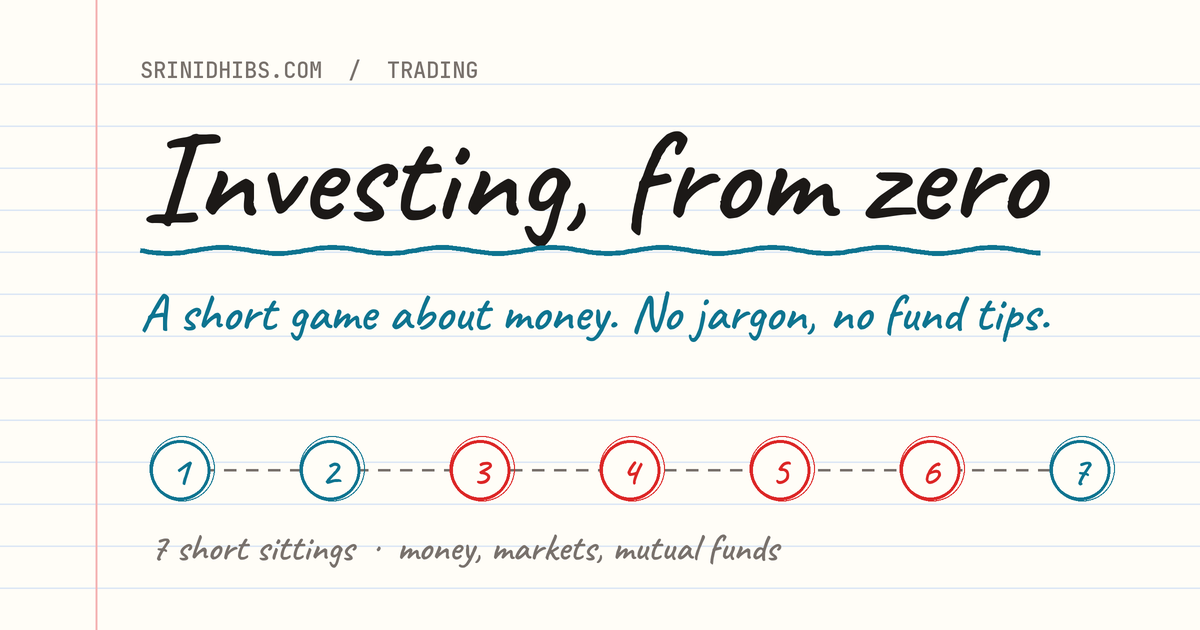
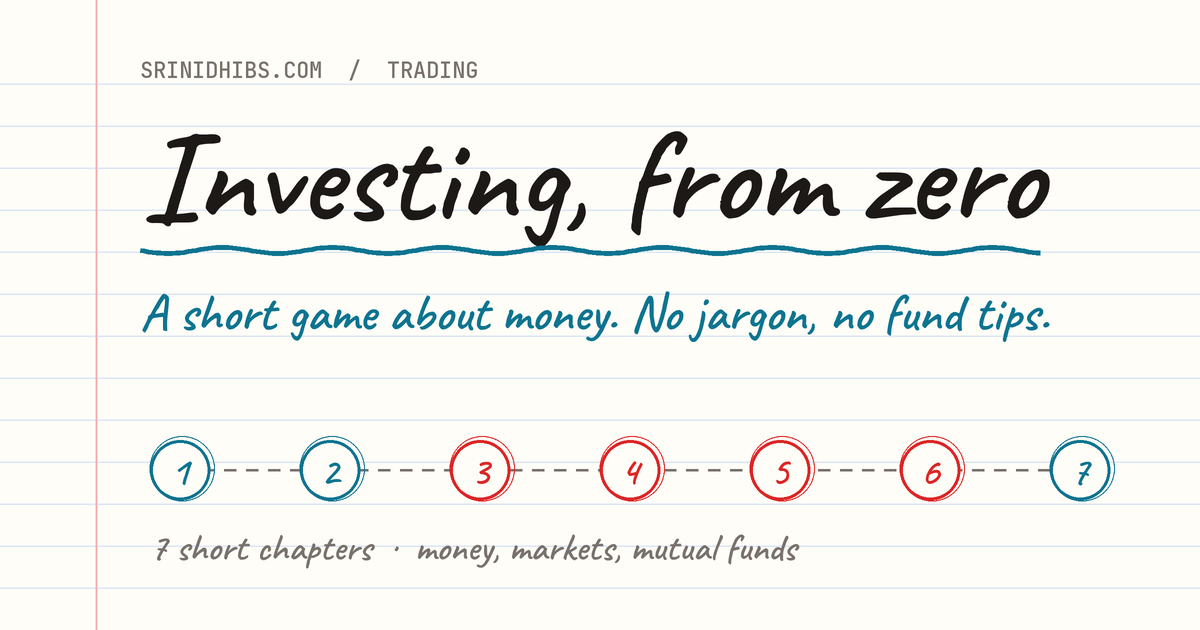
copy(investing): readers now see "Chapter" instead of "Sitting"
Reader-facing words only (option A): screen labels, Finish / complete /
celebration text, two story lines in Chapter 2, the Trading card + image
alt, and the WhatsApp share image (redrawn: "7 short chapters").

Code names stay "sitting" on purpose: file names, ids, the saved-progress
key (ifz-progress-v1 / "sitting-1") and Umami event names - renaming them
would wipe readers' progress and split the analytics history.

Changed region(s): [[0.2158, 0.8444, 0.6783, 0.9048]]

diff --git a/src/components/pages/Trading.js b/src/components/pages/Trading.js
@@ -52,7 +52,7 @@ const Trading = () => {
                 loads (no layout jump); lazy = fetched only near the screen */}
             <img
               src="/images/investing/og-investing-from-zero.png"
-              alt="A notebook page reading 'Investing, from zero' with seven numbered sittings"
+              alt="A notebook page reading 'Investing, from zero' with seven numbered chapters"
               loading="lazy"
               decoding="async"
               className="block w-full md:w-1/2 aspect-[40/21] object-cover"
@@ -63,7 +63,7 @@ const Trading = () => {
               </p>
               <h3 className="display-skin text-xl leading-tight text-ink mb-4">Investing, from zero</h3>
               <p className="text-ink-muted leading-relaxed mb-6">
-                Never invested before? Seven short sittings take you from money and
+                Never invested before? Seven short chapters take you from money and
                 inflation to the stock market and mutual funds. No jargon, no fund tips.
               </p>
               <span className="flex items-center font-labmono text-xs font-bold tracking-widest uppercase text-ink">

diff --git a/src/content/investing/en/ui.js b/src/content/investing/en/ui.js
@@ -10,11 +10,11 @@ const ui = {
   pageKicker: 'Trading / Investing, from zero',
   pageTitle: 'Investing, from zero',
   pageStandfirst: 'A short game about money. No jargon, no fund tips — just how it all works.',
-  sittingLabel: 'Sitting',          // "Sitting 1"
+  sittingLabel: 'Chapter',          // "Chapter 1" (readers see "Chapter"; the code still says "sitting")
   back: '← Back',
   next: 'Next →',
-  finish: 'Finish sitting ✓',
-  completeTitle: 'Sitting complete',
+  finish: 'Finish chapter ✓',
+  completeTitle: 'Chapter complete',
   playAgain: 'Play it again',
   unknownBeat: 'This screen could not be shown.',
   // Guess screens (E2)
@@ -41,7 +41,7 @@ const ui = {
   soonTitle: 'Coming soon',
   soonBody: 'This part of the story is still being written. Check back soon!',
   // {title} = the sitting just finished / the one just unlocked
-  celebrateDone: 'Sitting done: {title} ✨',
+  celebrateDone: 'Chapter done: {title} ✨',
   celebrateNext: 'Unlocked: {title}',
   celebrateSoon: 'The next part is coming soon.',
   // Multi-select choice screen: confirm button (S1 'Why save?')

diff --git a/src/content/investing/en/sitting2.js b/src/content/investing/en/sitting2.js
@@ -122,7 +122,7 @@ const sitting2 = {
       type: 'narration',
       kicker: 'THE LINE TO BEAT',
       text: [
-        'Remember Sitting 1? Since 2000, prices in India have gone up about 4.7 times.',
+        'Remember Chapter 1? Since 2000, prices in India have gone up about 4.7 times.',
         'So ₹1 lakh in 2000 has to grow to about ₹4.7 lakh today — just to buy the same things it bought then.',
         'That ₹4.7 lakh is the line every option has to beat. Finish below it, and your money bought less than when you started.',
       ],
@@ -245,7 +245,7 @@ const sitting2 = {
       text: [
         'Shares didn’t get there smoothly. In 2008 they lost nearly two-thirds of their value. In 2020, about 40% in a few weeks. Mid-sized and small companies fall harder than big ones.',
         'Whoever panicked and sold at the bottom locked in the loss. Whoever waited got it all back — and more.',
-        'We’ll ride these crashes properly in Sitting 6.',
+        'We’ll ride these crashes properly in Chapter 6.',
       ],
     },
 

diff --git a/scripts/make_share_image.py b/scripts/make_share_image.py
@@ -147,7 +147,7 @@ def main():
         badge(d, x, trail_y, i + 1, ink, num_font)
 
     # 6. A short handwritten caption under the trail
-    d.text((s(xs[0] - 30), s(560)), '7 short sittings  ·  money, markets, mutual funds',
+    d.text((s(xs[0] - 30), s(560)), '7 short chapters  ·  money, markets, mutual funds',
            font=font(CAVEAT, 38), fill=PENCIL, anchor='ls')
 
     # 7. Shrink to final size (this smooths every edge) and save
